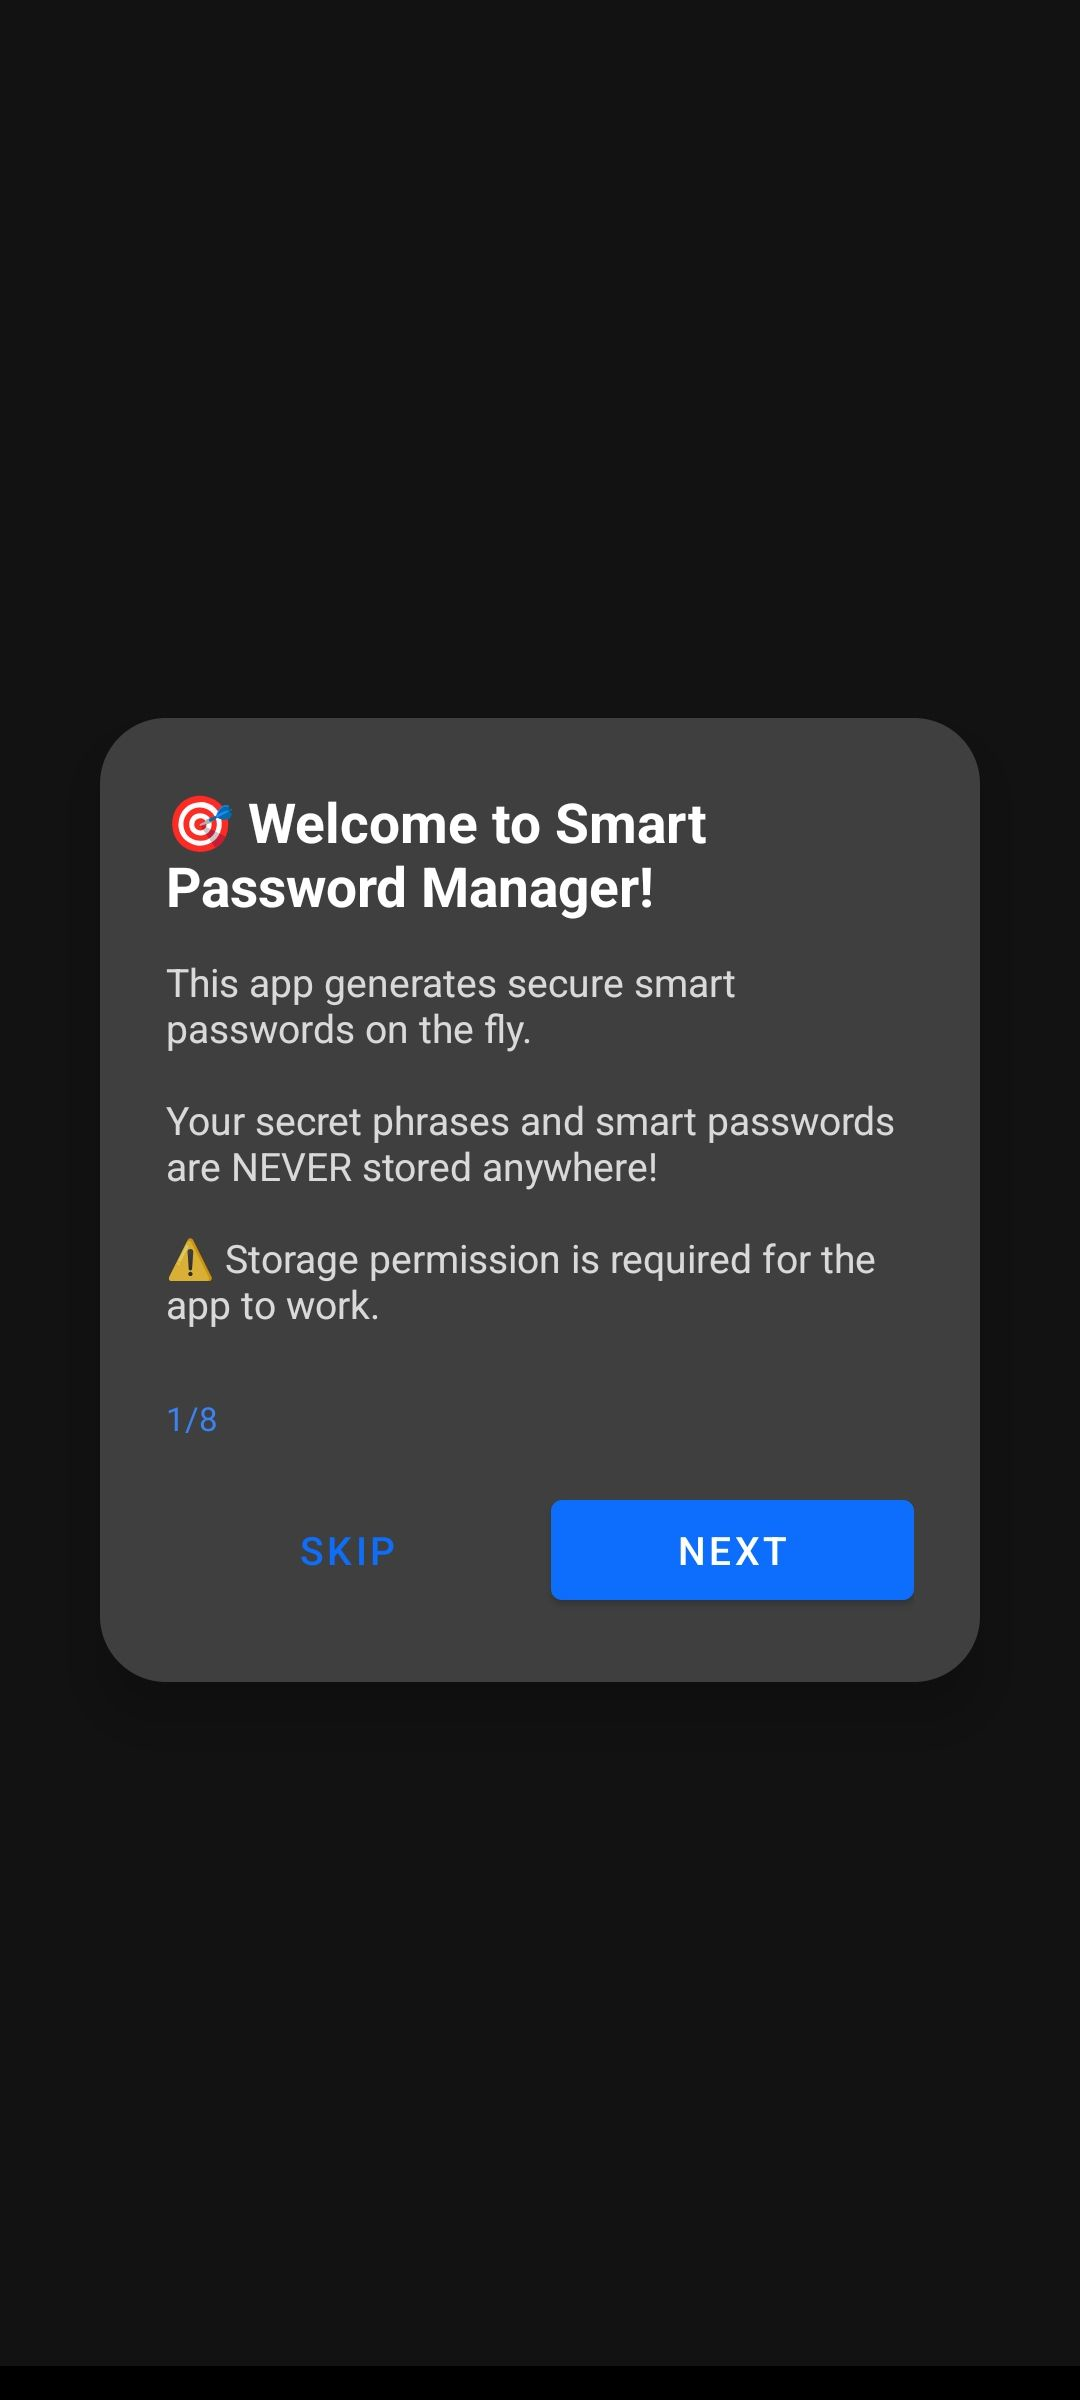
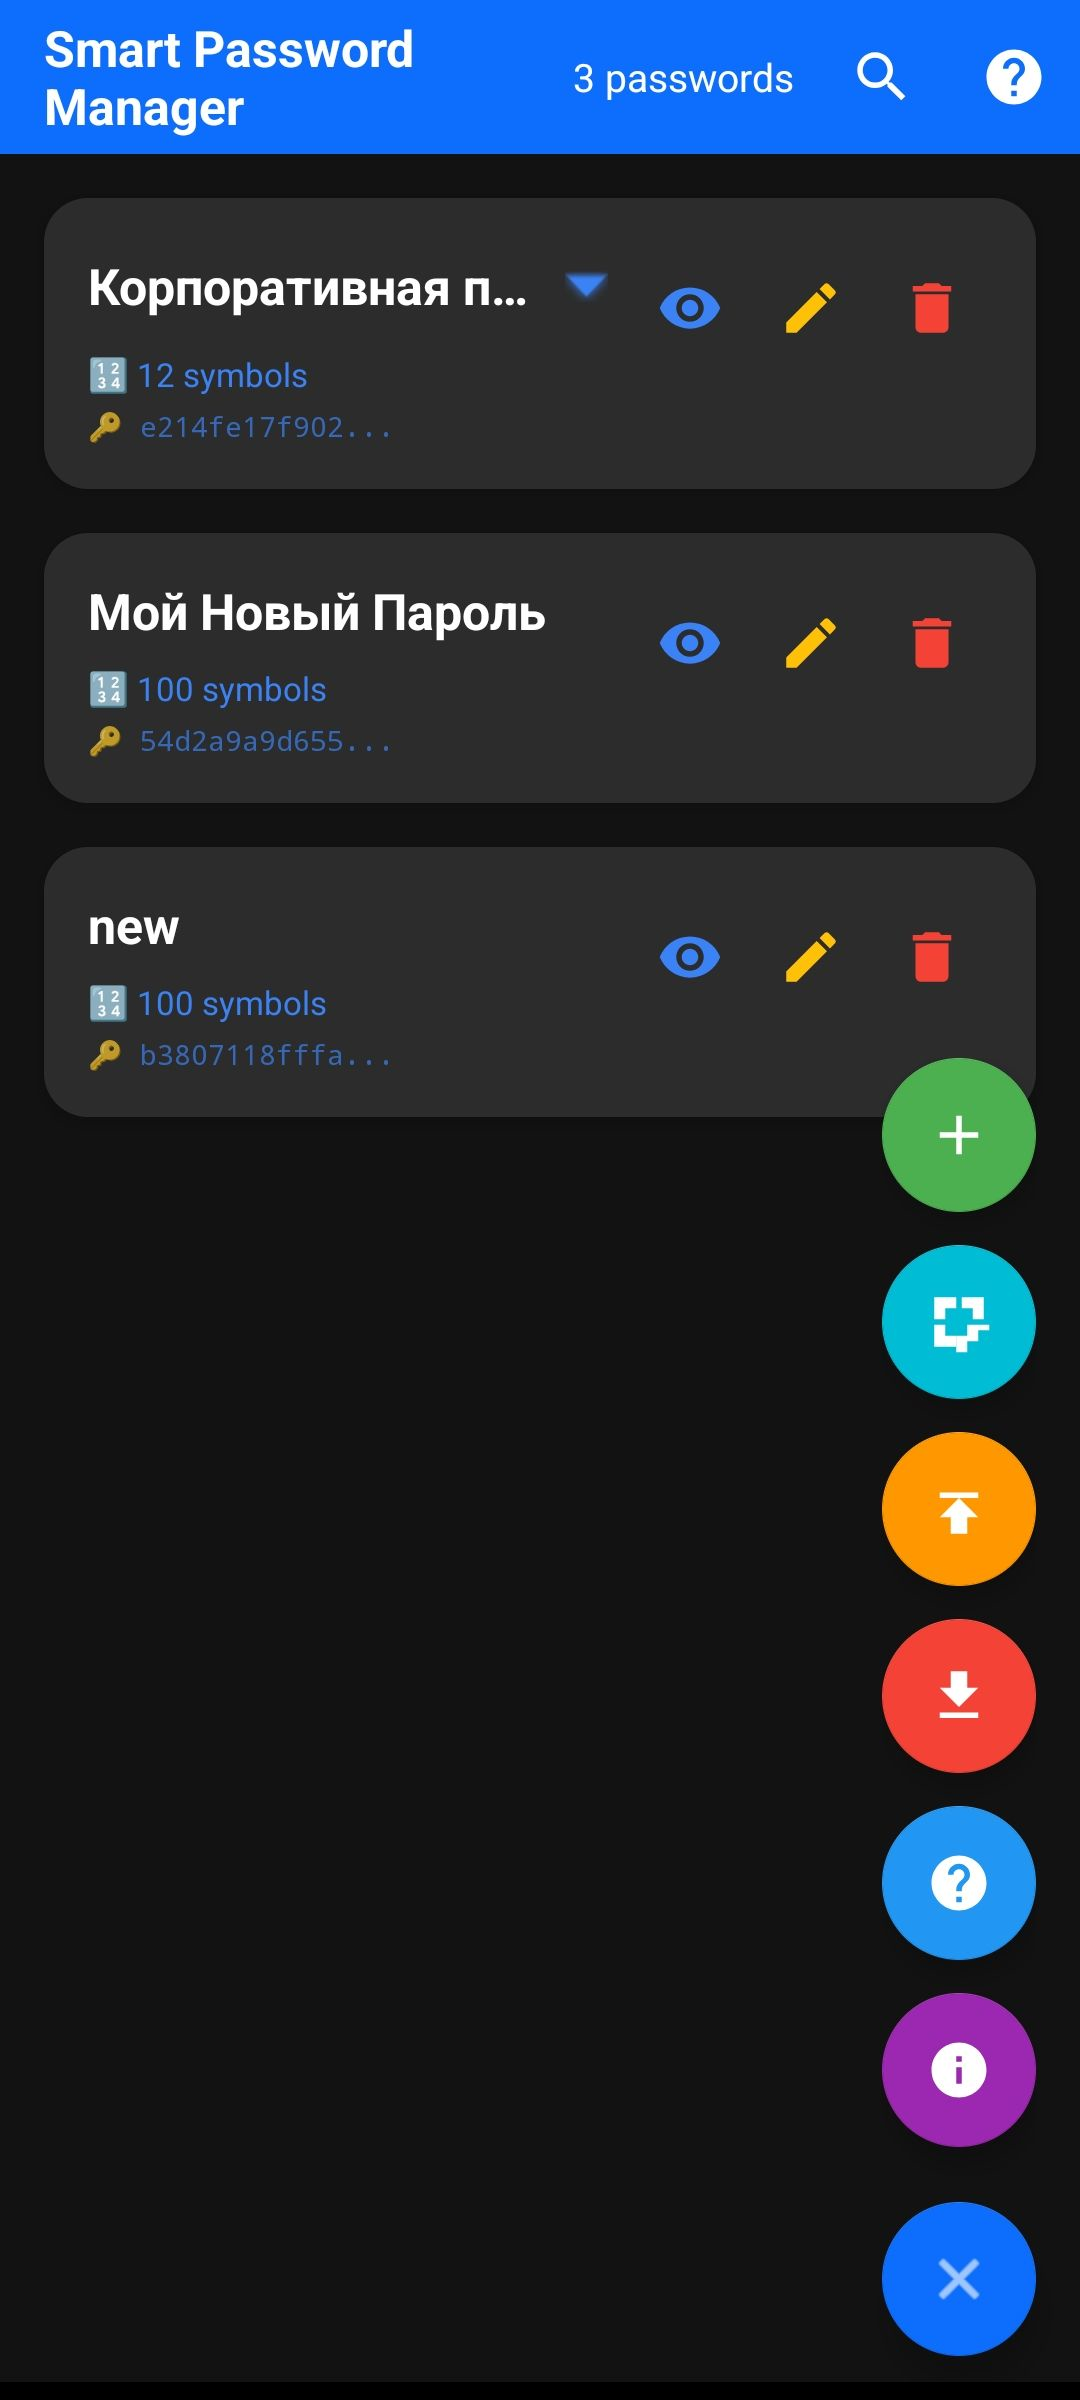
Smart Password Manager (Android) v1.1.3

diff --git a/app/src/main/java/com/example/smart_password_manager_android/StorageManager.kt b/app/src/main/java/com/example/smart_password_manager_android/StorageManager.kt
@@ -270,9 +270,9 @@ class StorageManager(private val context: Context) {
     private fun getAppVersion(): String {
         return try {
             val packageInfo = context.packageManager.getPackageInfo(context.packageName, 0)
-            packageInfo.versionName ?: "1.1.2"
+            packageInfo.versionName ?: "1.1.3"
         } catch (_: Exception) {
-            "1.1.2"
+            "1.1.3"
         }
     }
 }

diff --git a/README.md b/README.md
@@ -1,4 +1,4 @@
-# Smart Password Manager Android <sup>v1.1.2</sup>
+# Smart Password Manager Android <sup>v1.1.3</sup>
 
 ---
 
@@ -48,6 +48,7 @@ Smart Password Manager stores nothing. Your secrets never leave your device. Pas
 - **Material Design UI**: Clean, intuitive interface with dark theme support
 - **🔍 Instant Search**: Quickly find passwords by description as you type
 - **↕ Drag & Drop Reordering**: Customize password order with long press and drag
+- **📷 QR Code Import**: Scan QR codes to import passwords from other devices
 - **Secure Secret Entry**: Hidden input with show/hide toggle
 - **One-Tap Copy**: Copy generated passwords to clipboard instantly
 - **Export/Import**: Backup and restore your password metadata
@@ -69,6 +70,7 @@ Smart Password Manager stores nothing. Your secrets never leave your device. Pas
 ### Prerequisites
 - Android 8.0 (API level 26) or higher
 - Storage permission (for backup/export functionality)
+- Camera permission (for QR code scanning)
 
 ### Installation
 
@@ -80,7 +82,7 @@ Smart Password Manager stores nothing. Your secrets never leave your device. Pas
 
 1. **Read the Legal Disclaimer** — you must accept to continue
 2. **Grant Storage Permission** — required for saving backups in Documents folder
-3. **Complete the Onboarding Guide** — 7 steps explaining everything you need to know
+3. **Complete the Onboarding Guide** — 9 steps explaining everything you need to know
 4. **Start adding your smart passwords!**
 
 ### Adding a Smart Password
@@ -119,6 +121,37 @@ Smart Password Manager stores nothing. Your secrets never leave your device. Pas
 
 **Order Storage:** Your custom order is saved in a separate `order.json` file, keeping `passwords.json` compatible with other platforms.
 
+### 📷 QR Code Import
+
+**Import passwords securely via QR codes** — perfect for transferring entries between devices.
+
+1. Tap the **menu button** (three dots ⋮) in the toolbar
+2. Tap the **QR Scan button** (📷 icon)
+3. Grant **camera permission** when prompted
+4. **Scan QR code** containing password length and public key
+5. **Enter your secret phrase** to verify ownership
+6. **Add description** for the imported entry
+7. **Save** — password is ready to use!
+
+**QR Code Format:**
+```json
+{
+  "l": 16,
[1 lines of base64/hex data omitted]
+}
+```
+
+- `l` = Password length (12-100 characters)
+- `k` = Public key (64-character hex string)
+
+**Features:**
+- Continuous autofocus for best scanning results
+- Audio feedback (success/error sounds)
+- Duplicate detection prevents adding the same secret phrase twice
+- Character counter with color-coded indicator for description input
+
+**Generate QR codes** using any SmartPassLib implementation
+
 ### Editing & Deleting
 
 - **Edit** — Tap the ✏ pencil icon to change description or length only
@@ -156,11 +189,11 @@ Smart Password Manager stores nothing. Your secrets never leave your device. Pas
 
 ### Security Requirements
 
-| Field           | Minimum  | Default  | Maximum   |
-|-----------------|----------|----------|-----------|
-| Secret phrase   | 12 chars | -        | unlimited |
-| Password length | 12 chars | 16 chars | 100 chars |
-| Description     | 1 char   | -        | unlimited |
+| Field           | Minimum  | Default   | Maximum   |
+|-----------------|----------|-----------|-----------|
+| Secret phrase   | 12 chars | -         | unlimited |
+| Password length | 12 chars | 16 chars  | 100 chars |
+| Description     | 1 char   | 255 chars | 255 chars |
 
 ---
 
@@ -187,8 +220,8 @@ Smart Password Manager stores nothing. Your secrets never leave your device. Pas
 ❌ "1234567890" — only digits, too short
 ❌ "qwerty123" — keyboard pattern
 ❌ Same as description — never use the same as description
-
 ```
+
 ### Decentralized Nature
 
 **There is no "forgot password" button.** This is by design:
@@ -241,10 +274,11 @@ Powered by **[smartpasslib-kotlin](https://github.com/smartlegionlab/smartpassli
 
 | Permission                            | Required For                       |
 |---------------------------------------|------------------------------------|
+| CAMERA                                | QR code scanning                   |
 | MANAGE_EXTERNAL_STORAGE (Android 11+) | Saving backups to Documents folder |
 | WRITE_EXTERNAL_STORAGE (Android 10-)  | Export/Import functionality        |
 
-**Note:** Storage permission is required for backup/export only. The app works completely offline and never transmits data.
+**Note:** Storage permission is required for backup/export only. Camera permission is required only for QR scanning. The app works completely offline and never transmits data.
 
 ---
 
@@ -296,16 +330,16 @@ This Android application is part of a comprehensive suite:
 
 ### Main Screen
 - **Password Cards** — List of all your smart password entries
-- **Description** — Your custom label for each entry
+- **Description** — Your custom label for each entry (expandable if >20 chars)
 - **Length** — Shows password length in symbols
 - **Public Key Preview** — First 12 chars of verification key
 
 ### Toolbar Buttons
-| Button        | Action                                          |
-|---------------|-------------------------------------------------|
-| 🔍 Search     | Open search bar to filter passwords             |
-| ⋮ (Menu)      | Open menu with Add, Export, Import, Help, About |
-| ← (Back)      | Navigate back (when applicable)                 |
+| Button    | Action                                                   |
+|-----------|----------------------------------------------------------|
+| 🔍 Search | Open search bar to filter passwords                      |
+| ⋮ (Menu)  | Open menu with Add, QR Scan, Export, Import, Help, About |
+| ← (Back)  | Navigate back (when applicable)                          |
 
 ### Search Bar
 | Button        | Action                                      |
@@ -314,13 +348,14 @@ This Android application is part of a comprehensive suite:
 | Typing        | Instant filtering by description            |
 
 ### Menu Options
-| Option        | Action                            |
-|---------------|-----------------------------------|
-| + Add         | Create new smart password entry   |
-| Export        | Backup all metadata to JSON file  |
-| Import        | Restore metadata from backup      |
-| Help          | Open help documentation           |
-| About         | Show app info and ecosystem links |
+| Option       | Action                            |
+|--------------|-----------------------------------|
+| + Add        | Create new smart password entry   |
+| QR Scan      | Import password via QR code       |
+| Export       | Backup all metadata to JSON file  |
+| Import       | Restore metadata from backup      |
+| Help         | Open help documentation           |
+| About        | Show app info and ecosystem links |
 
 ### Entry Card Buttons
 | Button     | Action                                                |
@@ -328,6 +363,7 @@ This Android application is part of a comprehensive suite:
 | 👁 Eye    | Generate and display smart password (requires secret) |
 | ✏ Edit    | Change description or length (secret cannot change)   |
 | 🗑 Delete | Remove entry permanently                              |
+| ▼/▲ Arrow  | Expand/collapse long description (>20 chars)          |
 
 ### Drag & Drop
 | Action                                | Result                                    |
